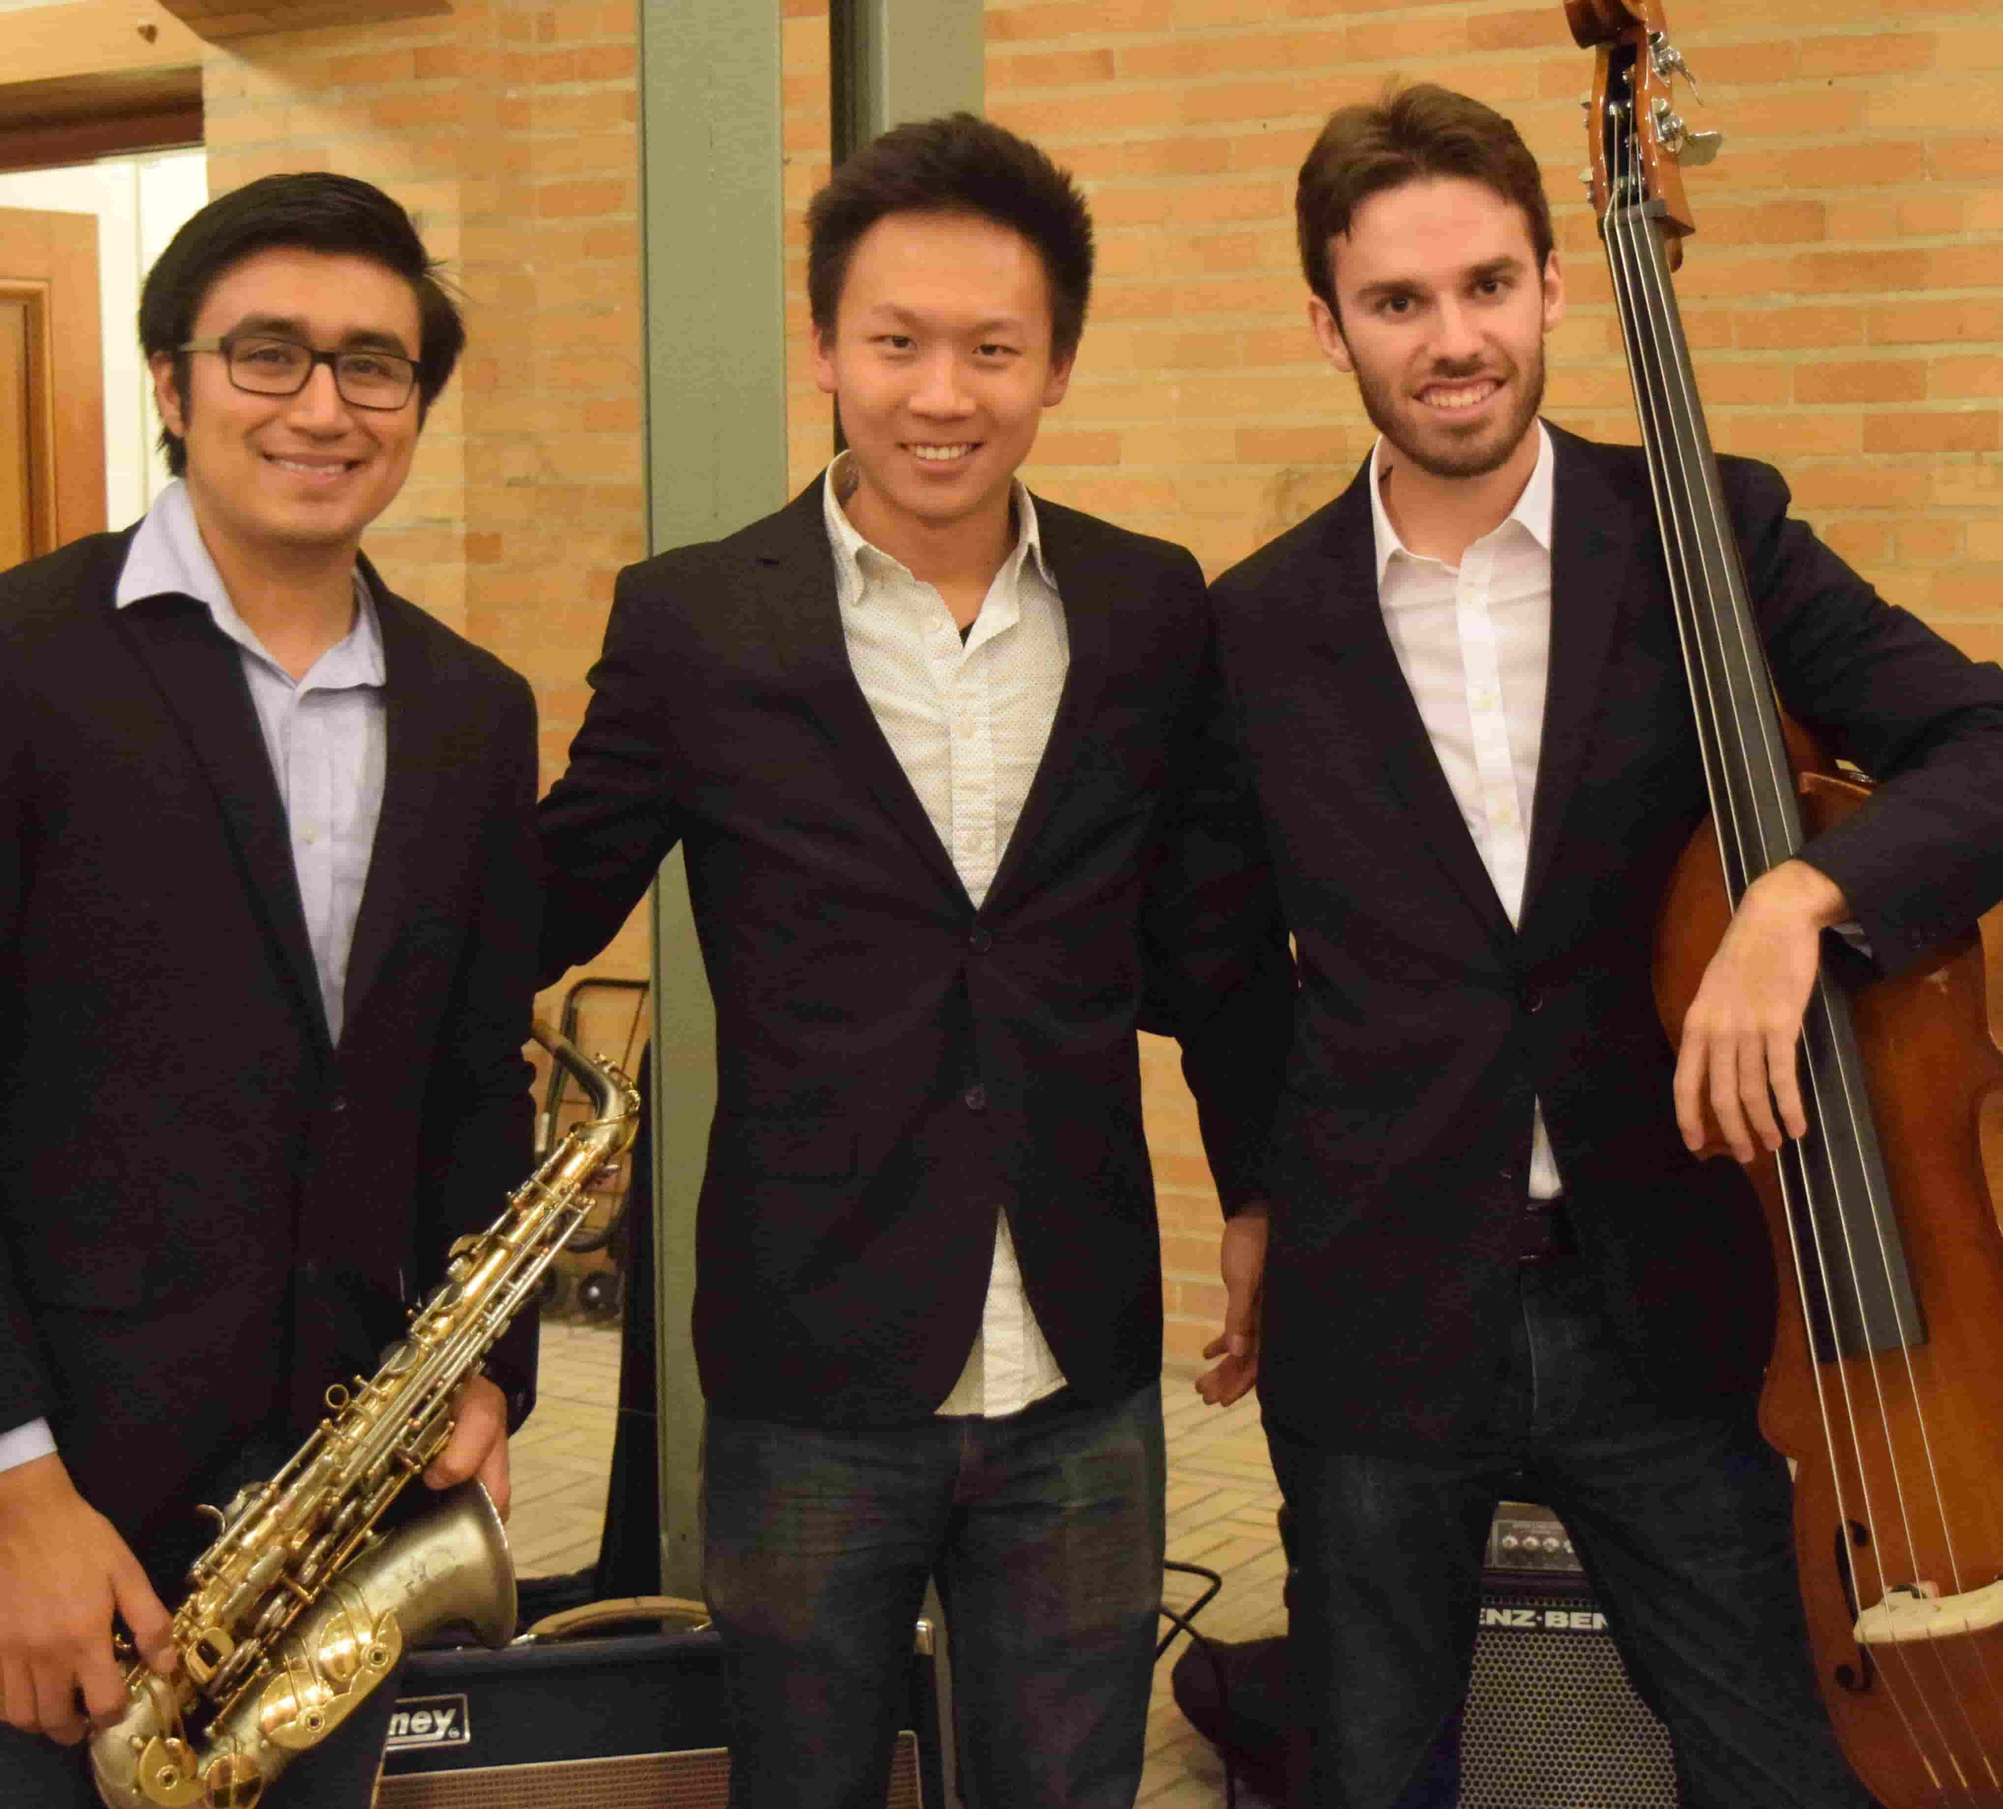
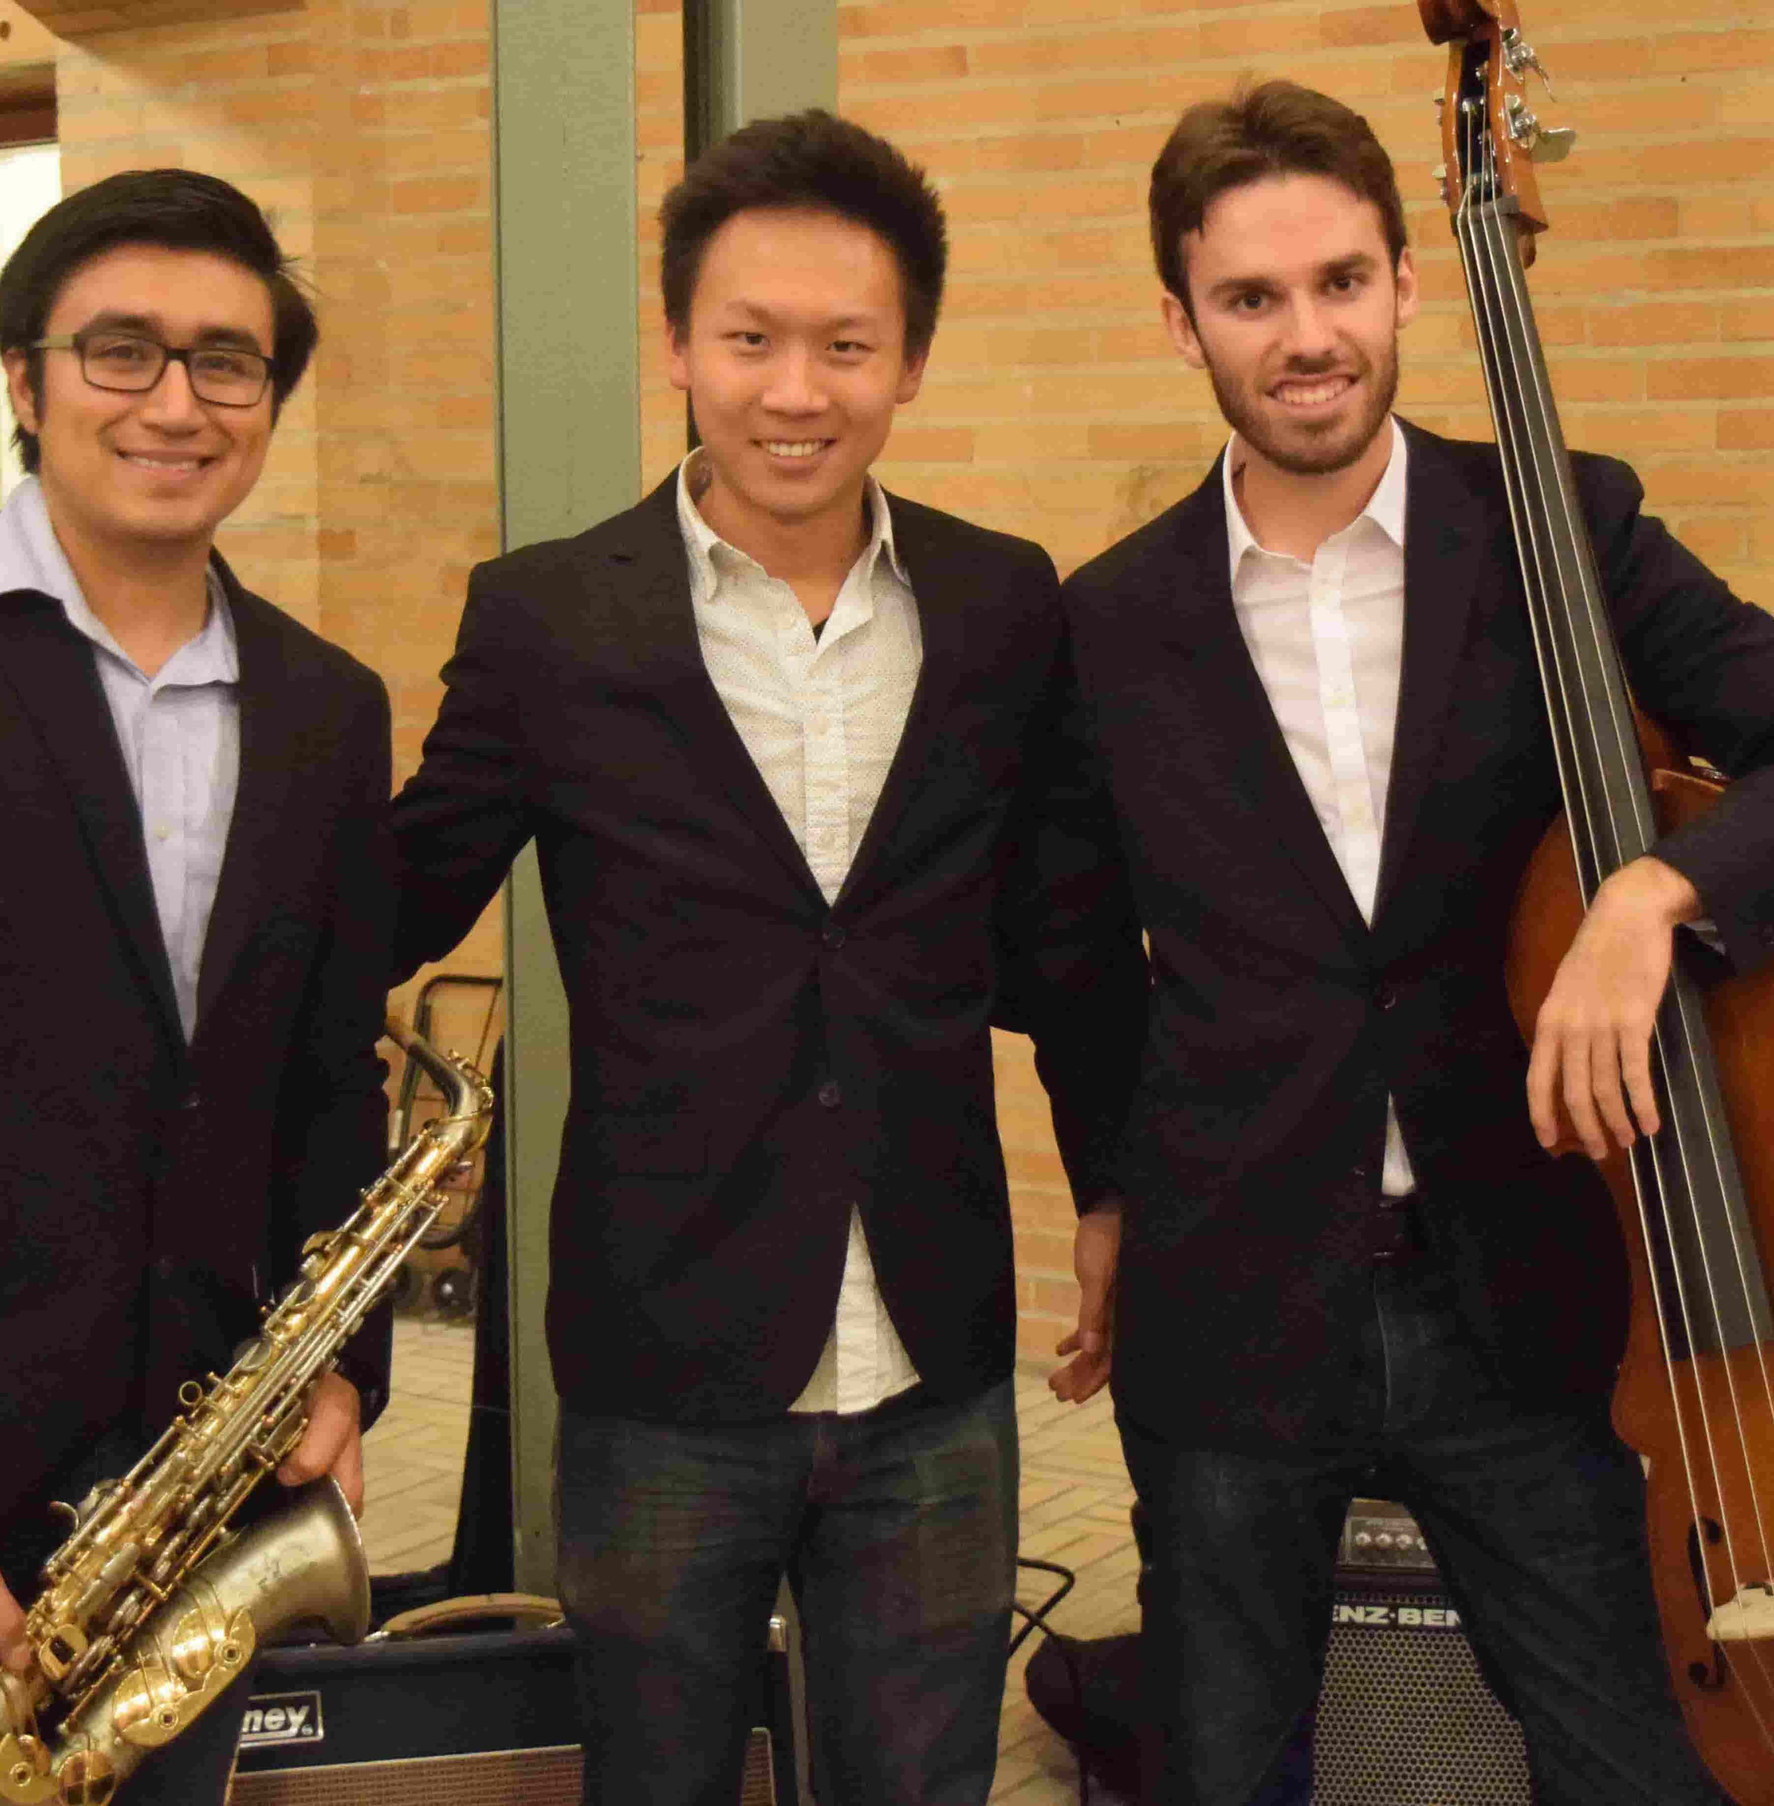
ss

diff --git a/index.html b/index.html
@@ -652,7 +652,7 @@
                                 </div>
                                 <div data-p="144.50" style="display: none;">
                                     <img data-u="image" src="images/Electric-Jazz-Ensemble.png" />
-                                    <img data-u="thumb" src="images/Electric-Jazz-Ensemble.png" />
+                                    <img data-u="thumb" src="images/Electric-Jazz-EnsembleT.jpeg" />
                                 </div>
                                 <div data-p="144.50" style="display: none;">
                                     <img data-u="image" src="images/Dann_Zinn.jpg" />
